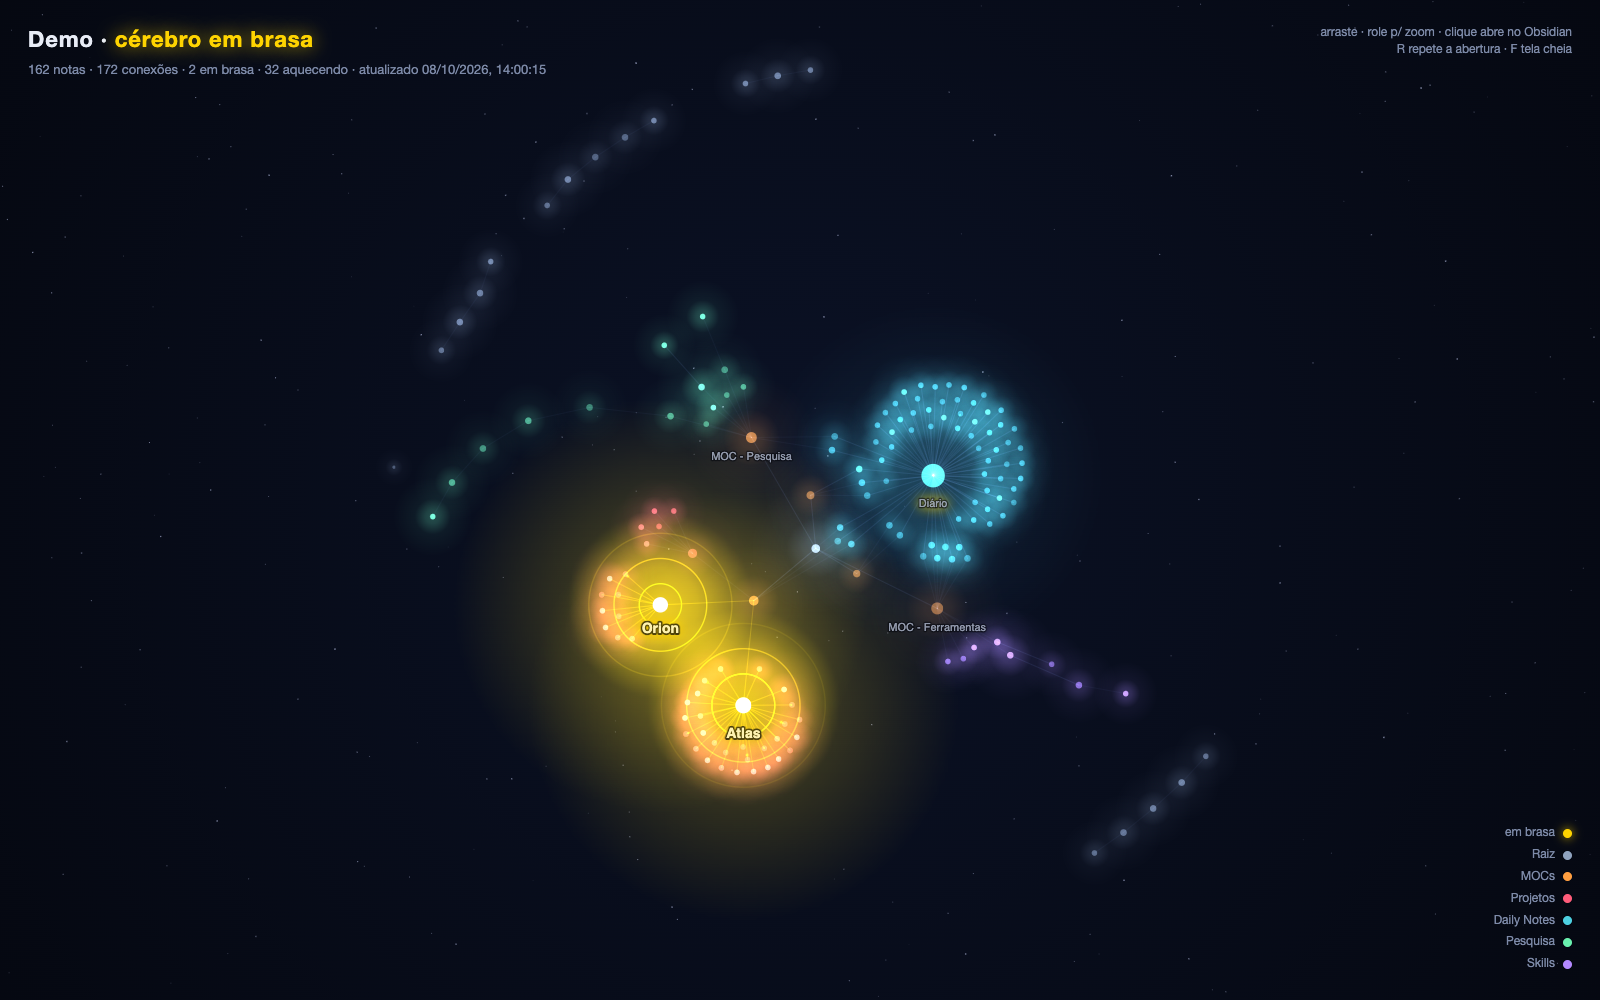
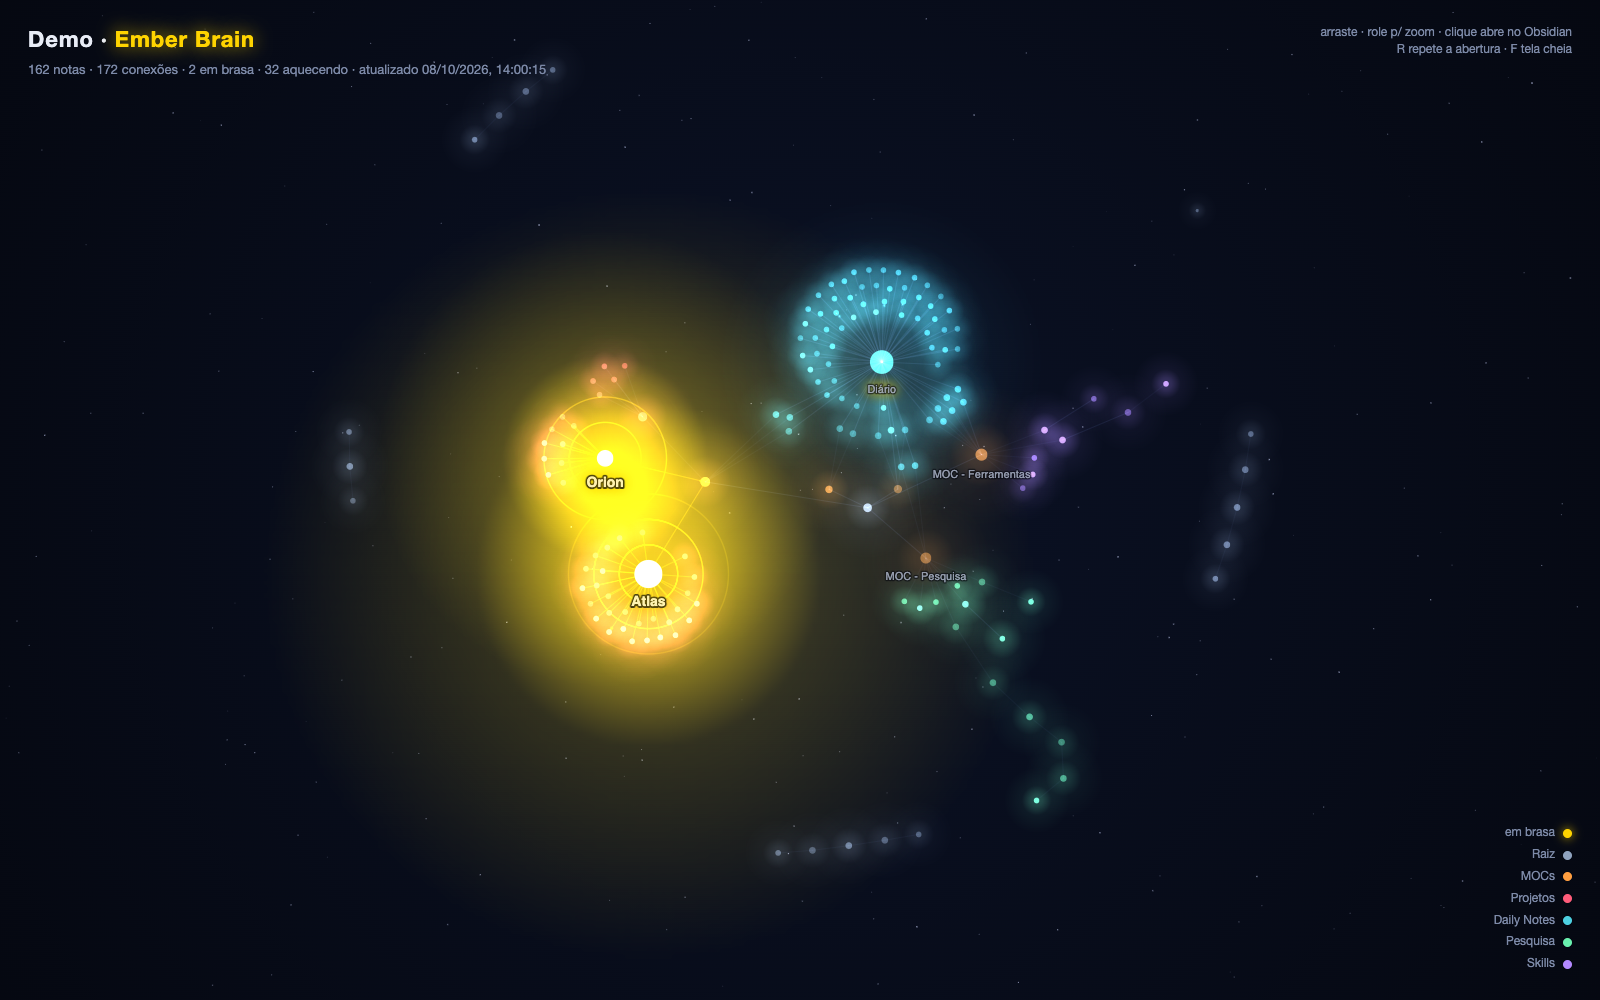
Renomeia a página animada para Ember Brain

diff --git a/show/index.html b/show/index.html
@@ -3,7 +3,7 @@
 <head>
 <meta charset="utf-8">
 <meta name="viewport" content="width=device-width, initial-scale=1">
-<title>Cérebro em Brasa</title>
+<title>Ember Brain</title>
 <style>
   :root {
     --bg: #04060d;
@@ -37,7 +37,7 @@
 </head>
 <body>
 <canvas id="c"></canvas>
-<div id="title" class="hud"><h1><b id="vname"></b> · <span>cérebro em brasa</span></h1><p id="stats"></p></div>
+<div id="title" class="hud"><h1><b id="vname"></b> · <span>Ember Brain</span></h1><p id="stats"></p></div>
 <div id="hint" class="hud">arraste · role p/ zoom · clique abre no Obsidian<br>R repete a abertura · F tela cheia</div>
 <div id="clock" class="hud"></div>
 <div id="legend" class="hud"></div>

diff --git a/README.md b/README.md
@@ -1,4 +1,4 @@
-# Obsidian Heatmap · cérebro em brasa
+# Obsidian Heatmap · Ember Brain
 
 Mostra **quais notas do seu vault Obsidian estão recebendo mais atualizações**: grava um mapa de calor nas próprias notas (para colorir o grafo nativo) e gera uma página animada do vault, feita para mostrar para outras pessoas.
 
@@ -7,7 +7,7 @@ Mostra **quais notas do seu vault Obsidian estão recebendo mais atualizações*
 São duas partes:
 
 1. **`heatmap.py`** grava `heat: hot | warm | cold` no frontmatter de cada nota e exporta o grafo para a página.
-2. **`show/index.html`** desenha o vault como uma constelação animada:
+2. **`show/index.html`** (Ember Brain) desenha o vault como uma constelação animada:
    - **Abertura:** as notas nascem na ordem em que foram criadas, com uma data correndo no canto.
    - **Notas em brasa:** pulsam em amarelo, com ondas de sonar.
    - **Partículas:** correm pelas conexões em direção às notas mais quentes.
